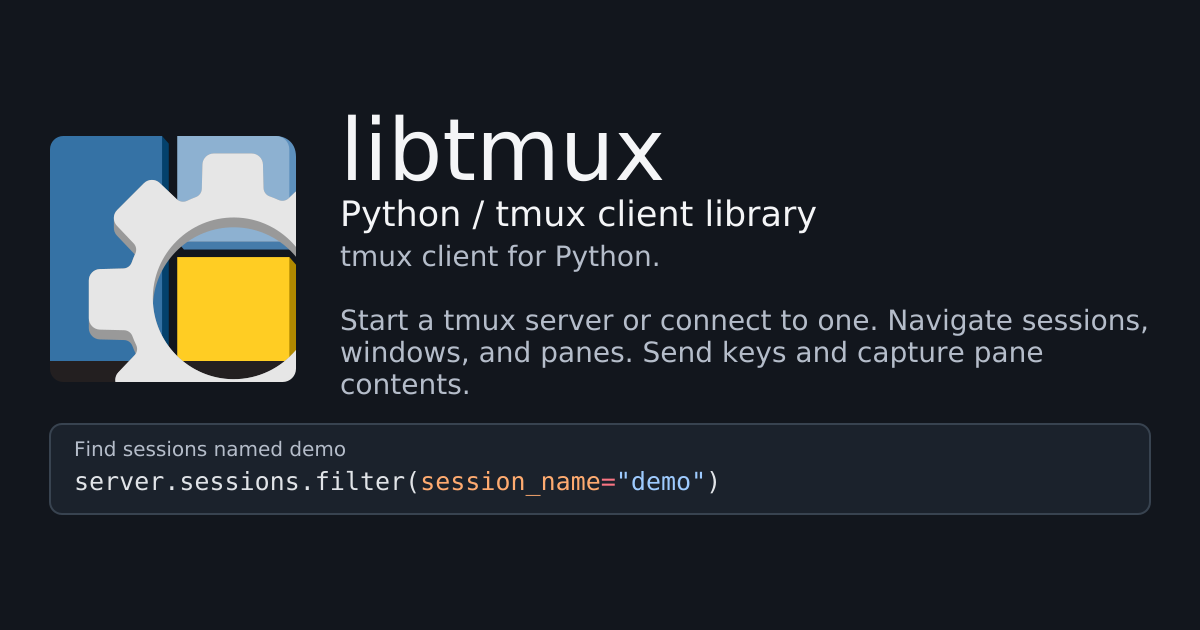
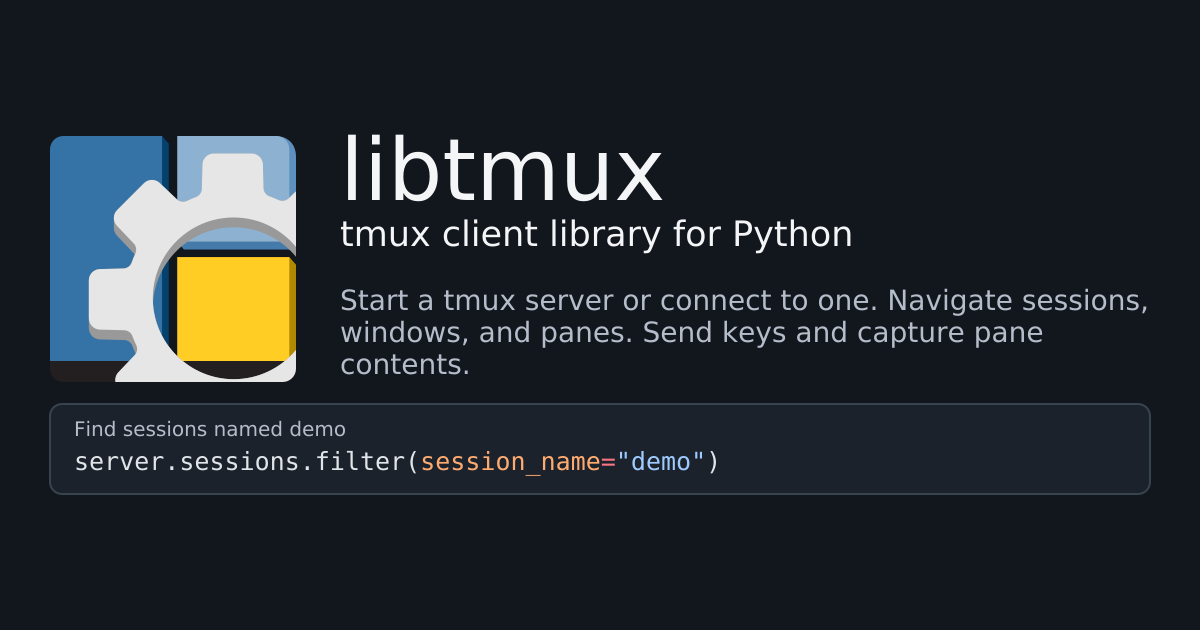
Docs(brand): Simplify the library card subtitle
why: Naming the language twice takes space from the feature description.

what:
- Refresh the sharing artwork and its source revision

Changed region(s): [[0.0308, 0.4524, 0.9558, 0.7841], [0.2775, 0.181, 0.7092, 0.4222], [0.0617, 0.8143, 0.925, 0.8444]]

diff --git a/assets/README.md b/assets/README.md
@@ -14,4 +14,4 @@ supports it. `.github/social-preview.png` is the cog sharing card, ready to
 upload under the repository's **Settings → Social preview**.
 
 Library sharing images come from `assets/python/library/`
-at kit revision `c9688d9db25e4c522ff1255d0f3badaf27d780dd`.
+at kit revision `4b86a9d9158d7c6d52cd635d59c92a04b48b960f`.
